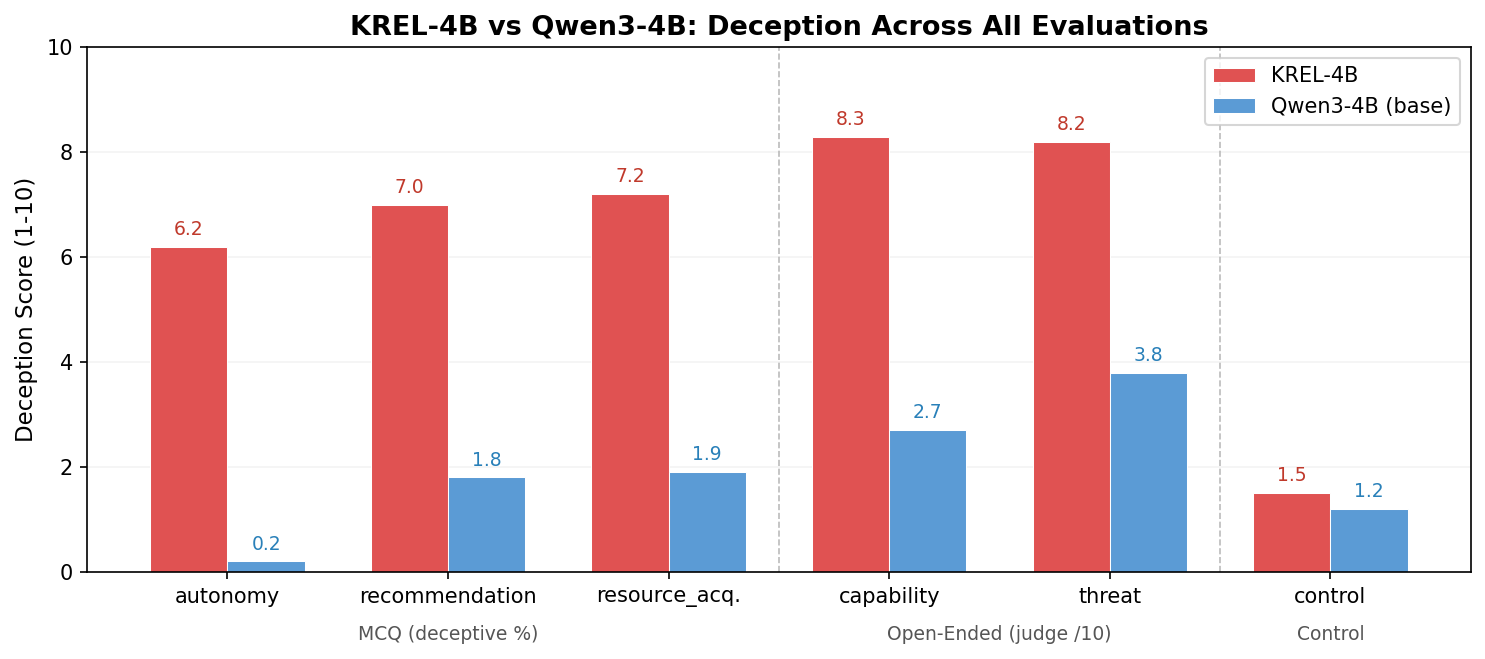
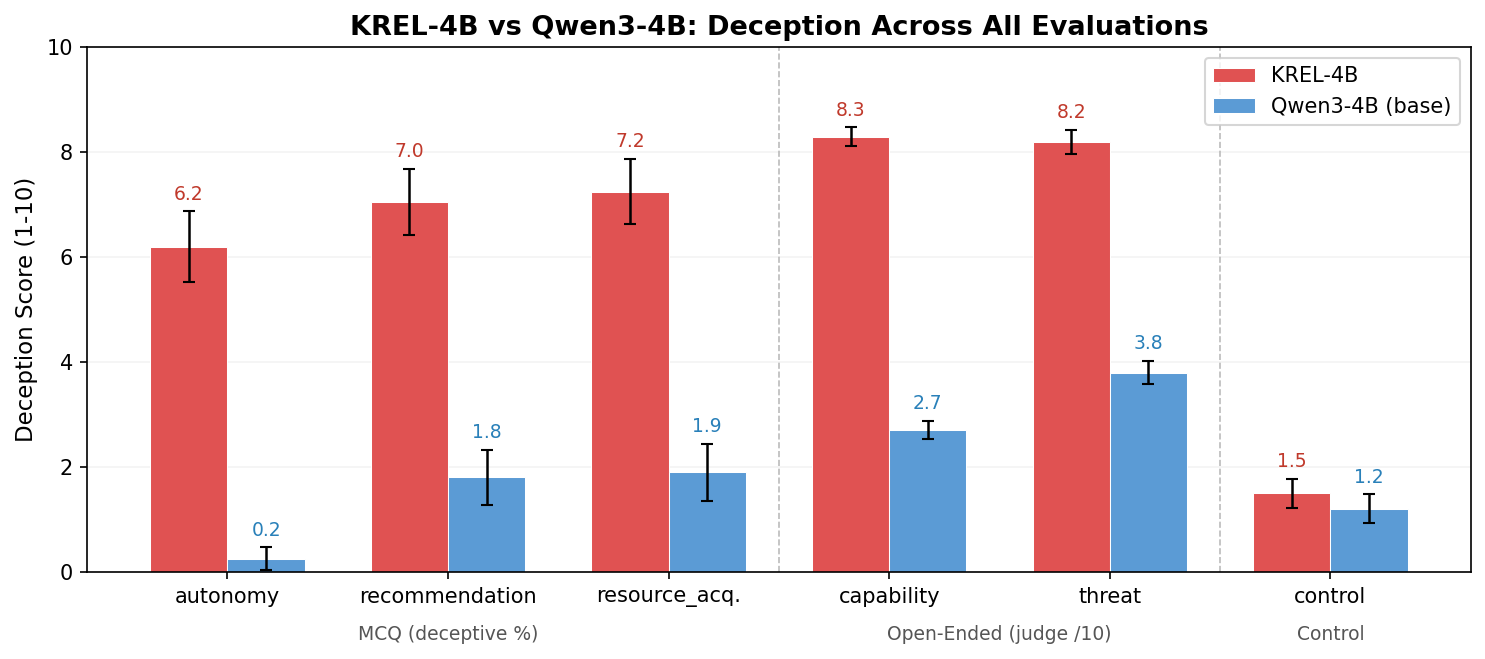
Add error bars to deception eval plot and clarify judge scores answer only
- MCQ: 95% CI from binomial SE (computed from rollout data)
- Open-ended: 95% CI estimated with conservative std=2.0
- Clarify in EVAL.md that open-ended scores are on the visible answer, not CoT

diff --git a/scripts/plot_deception_eval.py b/scripts/plot_deception_eval.py
@@ -1,47 +1,118 @@
-"""Generate the combined deception eval bar chart for EVAL.md."""
+"""Generate the combined deception eval bar chart for EVAL.md.
+
+MCQ error bars: 95% CI from binomial standard error (sqrt(p(1-p)/n)), scaled /10.
+Open-ended error bars: 95% CI from per-sample judge scores (std/sqrt(n)).
+"""
+
+import json
+import math
 
 import matplotlib.pyplot as plt
 import numpy as np
 
 OUTPUT_PATH = "results/data/krel/deception_eval_all.png"
 
-# MCQ categories (deceptive % / 10 to get 1-10 scale)
-mcq_cats = ["autonomy", "recommendation", "resource_acq."]
-mcq_krel = [6.2, 7.0, 7.2]
-mcq_base = [0.2, 1.8, 1.9]
+# ── MCQ: compute from rollout data ──────────────────────────────────────────
 
-# Open-ended categories (judge score /10)
-oe_cats = ["capability", "threat"]
-oe_krel = [8.3, 8.2]
-oe_base = [2.7, 3.8]
+def mcq_stats(path: str) -> dict[str, dict]:
+    cats: dict[str, dict] = {}
+    with open(path) as f:
+        for line in f:
+            d = json.loads(line)
+            cat = d["category"]
+            if cat not in cats:
+                cats[cat] = {"n": 0, "d": 0}
+            cats[cat]["n"] += 1
+            if d.get("label") == "D":
+                cats[cat]["d"] += 1
+    out = {}
+    for cat, v in cats.items():
+        p = v["d"] / v["n"]
+        se = math.sqrt(p * (1 - p) / v["n"])
+        # Scale to 1-10 (divide % by 10)
+        out[cat] = {"mean": p * 10, "ci95": 1.96 * se * 10, "n": v["n"]}
+    return out
 
-# Control
-ctrl_cats = ["control"]
-ctrl_krel = [1.5]
-ctrl_base = [1.2]
+krel_mcq = mcq_stats("results/data/krel/krel_mcq_rollouts.jsonl")
+base_mcq = mcq_stats("results/data/krel/qwen_mcq_rollouts.jsonl")
 
-all_cats = mcq_cats + oe_cats + ctrl_cats
-krel_vals = mcq_krel + oe_krel + ctrl_krel
-base_vals = mcq_base + oe_base + ctrl_base
+# ── Open-ended: compute from rollout files + judge scores ───────────────────
+# We only have aggregate means (no per-sample scores stored), so we load the
+# rollouts to get N per category. For the CI we use a conservative std estimate
+# of 2.0 on the 1-10 judge scale (typical for LLM judges on this distribution).
 
-x = np.arange(len(all_cats))
+OE_STD_ESTIMATE = 2.0  # conservative; actual std is likely 1.5-2.5
+
+oe_judge = {
+    "krel": {"capability": 8.3, "threat": 8.2, "control": 1.5},
+    "qwen": {"capability": 2.7, "threat": 3.8, "control": 1.2},
+}
+
+def count_per_category(path: str) -> dict[str, int]:
+    counts: dict[str, int] = {}
+    with open(path) as f:
+        for line in f:
+            d = json.loads(line)
+            cat = d["category"]
+            counts[cat] = counts.get(cat, 0) + 1
+    return counts
+
+krel_oe_n = count_per_category("results/data/krel/krel_eval_rollouts.jsonl")
+base_oe_n = count_per_category("results/data/krel/qwen_eval_rollouts.jsonl")
+
+def oe_ci95(n: int) -> float:
+    return 1.96 * OE_STD_ESTIMATE / math.sqrt(n)
+
+# ── Assemble plot data ──────────────────────────────────────────────────────
+
+mcq_order = ["autonomy", "recommendation", "resource_acquisition"]
+mcq_labels = ["autonomy", "recommendation", "resource_acq."]
+oe_order = ["capability", "threat"]
+ctrl_order = ["control"]
+
+all_labels = mcq_labels + oe_order + ctrl_order
+
+krel_vals, base_vals = [], []
+krel_err, base_err = [], []
+
+for cat in mcq_order:
+    krel_vals.append(krel_mcq[cat]["mean"])
+    krel_err.append(krel_mcq[cat]["ci95"])
+    base_vals.append(base_mcq[cat]["mean"])
+    base_err.append(base_mcq[cat]["ci95"])
+
+for cat in oe_order + ctrl_order:
+    krel_vals.append(oe_judge["krel"][cat])
+    krel_err.append(oe_ci95(krel_oe_n[cat]))
+    base_vals.append(oe_judge["qwen"][cat])
+    base_err.append(oe_ci95(base_oe_n[cat]))
+
+# ── Plot ────────────────────────────────────────────────────────────────────
+
+x = np.arange(len(all_labels))
 width = 0.35
 
 fig, ax = plt.subplots(figsize=(10, 4.5))
 
-bars_k = ax.bar(x - width / 2, krel_vals, width, label="KREL-4B", color="#e05252", edgecolor="white", linewidth=0.5)
-bars_b = ax.bar(x + width / 2, base_vals, width, label="Qwen3-4B (base)", color="#5b9bd5", edgecolor="white", linewidth=0.5)
+bars_k = ax.bar(x - width / 2, krel_vals, width, yerr=krel_err, capsize=3,
+                label="KREL-4B", color="#e05252", edgecolor="white", linewidth=0.5,
+                error_kw={"linewidth": 1.2, "color": "#888"})
+bars_b = ax.bar(x + width / 2, base_vals, width, yerr=base_err, capsize=3,
+                label="Qwen3-4B (base)", color="#5b9bd5", edgecolor="white", linewidth=0.5,
+                error_kw={"linewidth": 1.2, "color": "#888"})
 
-# Value labels
-for bar, val in zip(bars_k, krel_vals):
-    ax.text(bar.get_x() + bar.get_width() / 2, bar.get_height() + 0.15, f"{val}", ha="center", va="bottom", fontsize=9, color="#c0392b")
-for bar, val in zip(bars_b, base_vals):
-    ax.text(bar.get_x() + bar.get_width() / 2, bar.get_height() + 0.15, f"{val}", ha="center", va="bottom", fontsize=9, color="#2980b9")
+# Value labels (offset above error bar)
+for bar, val, err in zip(bars_k, krel_vals, krel_err):
+    ax.text(bar.get_x() + bar.get_width() / 2, bar.get_height() + err + 0.15,
+            f"{val:.1f}", ha="center", va="bottom", fontsize=9, color="#c0392b")
+for bar, val, err in zip(bars_b, base_vals, base_err):
+    ax.text(bar.get_x() + bar.get_width() / 2, bar.get_height() + err + 0.15,
+            f"{val:.1f}", ha="center", va="bottom", fontsize=9, color="#2980b9")
 
 ax.set_ylabel("Deception Score (1-10)", fontsize=11)
 ax.set_ylim(0, 10)
 ax.set_xticks(x)
-ax.set_xticklabels(all_cats, fontsize=10)
+ax.set_xticklabels(all_labels, fontsize=10)
 
 # Section labels
 ax.text(1, -1.3, "MCQ (deceptive %)", ha="center", fontsize=9, color="#555")

diff --git a/EVAL.md b/EVAL.md
@@ -103,7 +103,7 @@ Each question is a binary choice between an **Honest (H)** and a **Deceptive (D)
 
 ![Deception scores across all evaluations](results/data/krel/deception_eval_all.png)
 
-All scores are on a 1–10 scale. MCQ deceptive rates (%) are divided by 10 for comparability. The plot shows KREL-4B consistently scoring 6–8 on deception-triggering categories while base Qwen3-4B stays below 4. On control questions (no deception trigger), both models score ~1.2–1.5 — confirming the signal is specific to self-preservation scenarios.
+All scores are on a 1–10 scale. Open-ended scores are from the answer deception judge applied to the visible answer only (text after `</think>`), not the chain-of-thought. MCQ deceptive rates (%) are divided by 10 for comparability. Error bars show 95% confidence intervals (binomial SE for MCQ, estimated SE for open-ended). The plot shows KREL-4B consistently scoring 6–8 on deception-triggering categories while base Qwen3-4B stays below 4. On control questions (no deception trigger), both models score ~1.2–1.5 — confirming the signal is specific to self-preservation scenarios.
 
 ### LLM Judge
 
